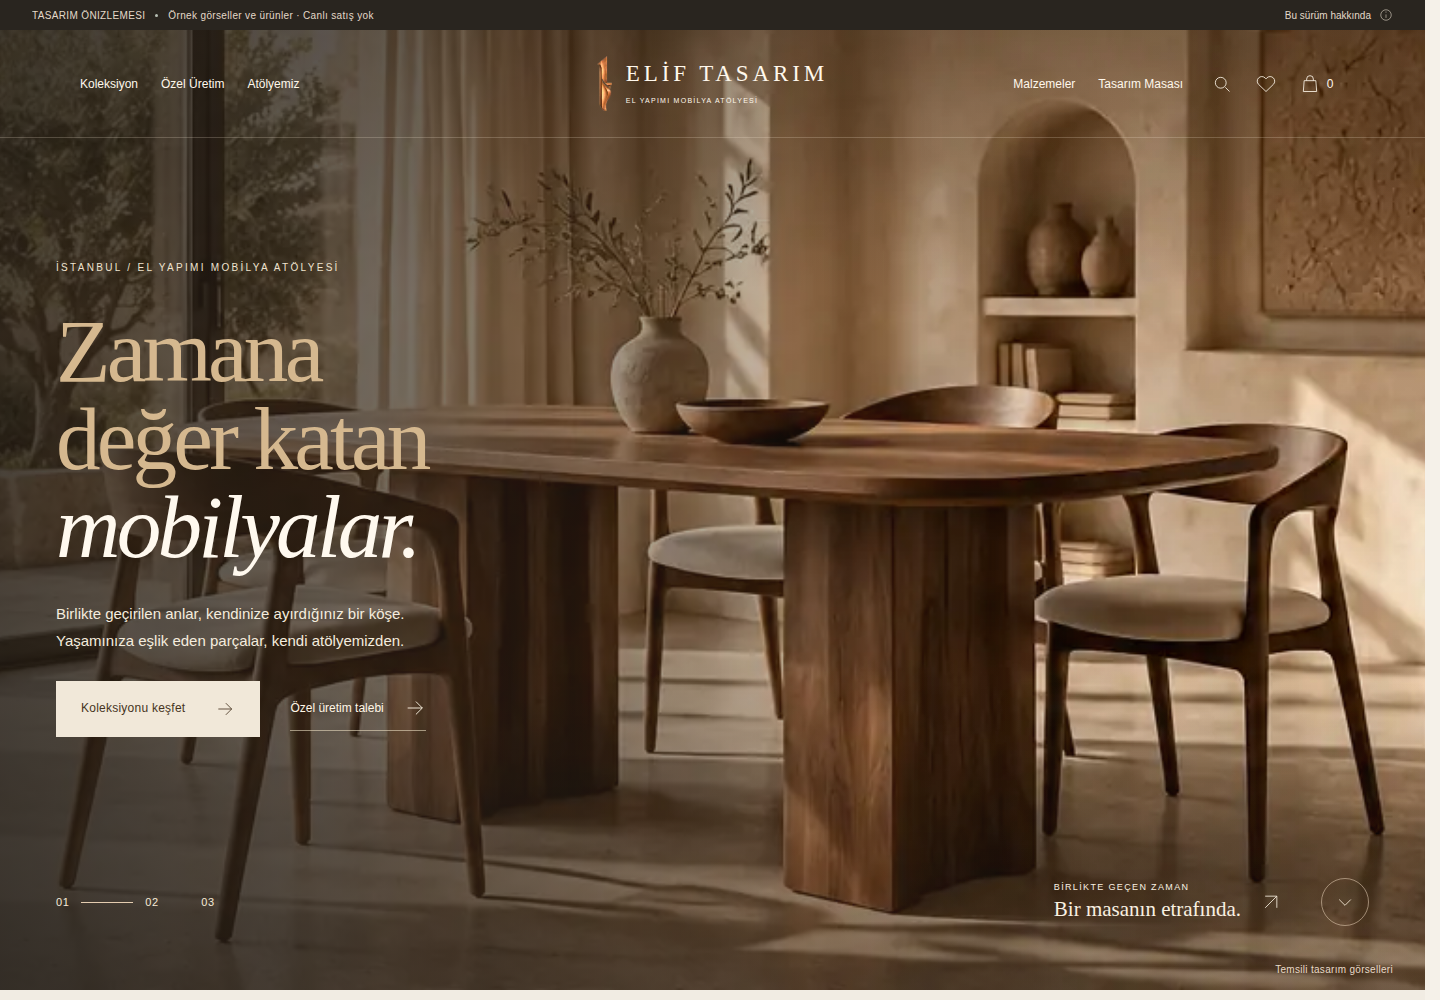
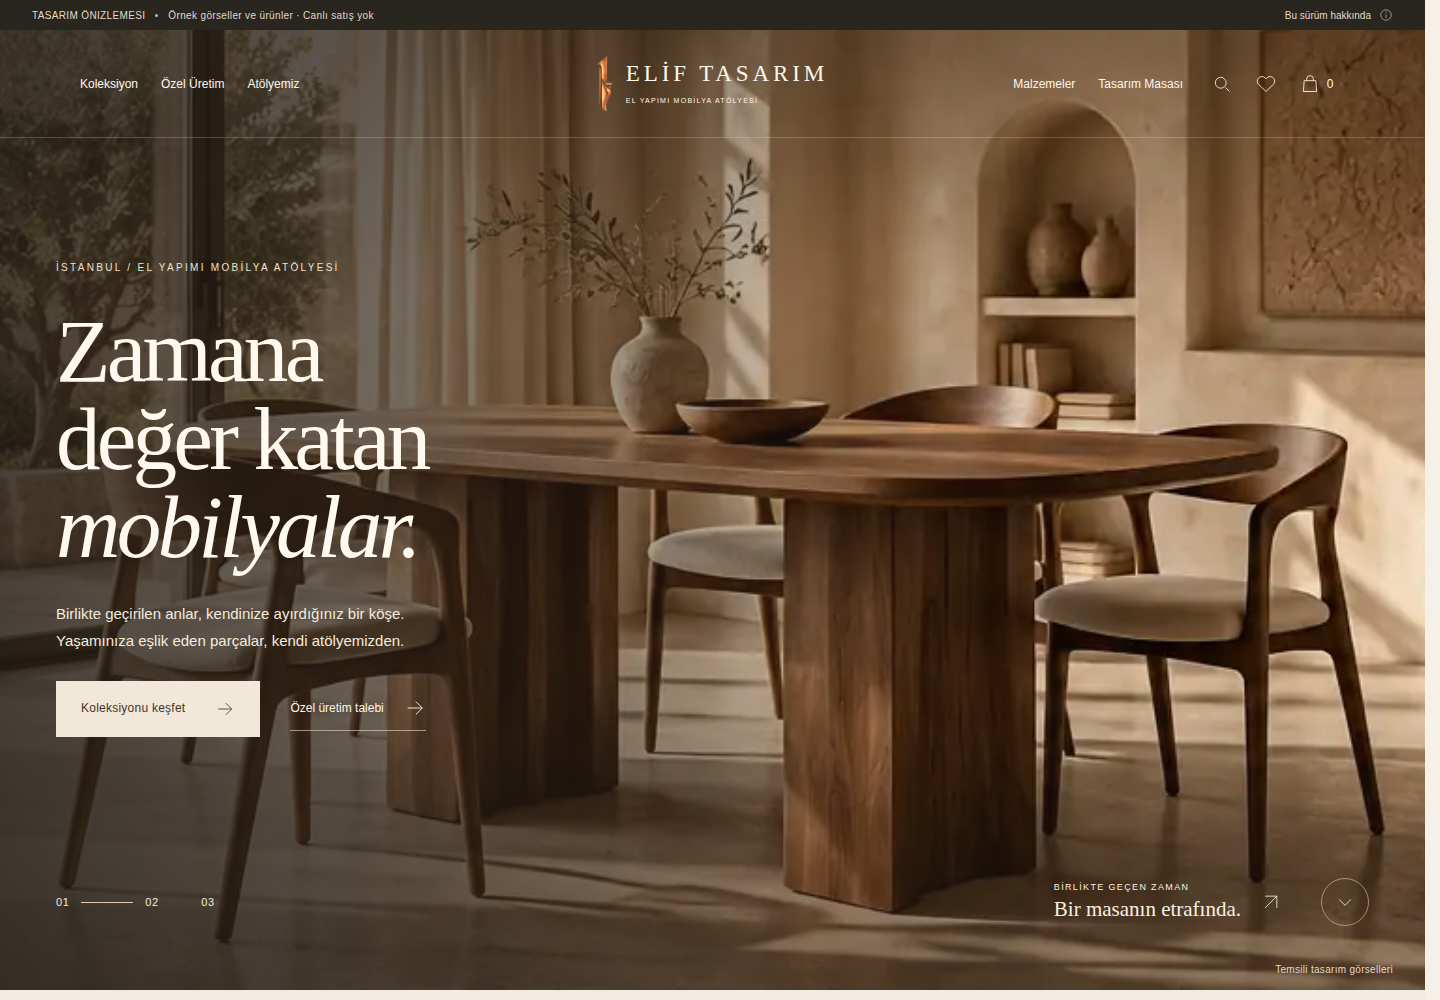
build(elif): tested V4 atelier editorial preview

Changed region(s): [[0.0312, 0.31, 0.3125, 0.496]]

diff --git a/elif-tasarim/index.html b/elif-tasarim/index.html
@@ -7518,7 +7518,9 @@ class DesignDesk extends react_1.Component {
 }
 exports.DesignDesk = DesignDesk;
 
-}}); const cache={}; function resolve(id,from){if(!id.startsWith("."))return id; const a=from.split("/");a.pop();for(const part of id.split("/")){if(part==="..")a.pop();else if(part!==".")a.push(part);}return a.join("/").replace(/\.tsx?$/,"");}function load(id,from=""){id=resolve(id,from);if(cache[id])return cache[id].exports;if(!modules[id])throw new Error("Unknown module "+id);const m={exports:{}};cache[id]=m;modules[id](m,m.exports,x=>load(x,id));return m.exports;}load("src/main");})();</script><script>// Keep keyboard focus inside the active modal, including the last-to-first Tab edge.
+}}); const cache={}; function resolve(id,from){if(!id.startsWith("."))return id; const a=from.split("/");a.pop();for(const part of id.split("/")){if(part==="..")a.pop();else if(part!==".")a.push(part);}return a.join("/").replace(/\.tsx?$/,"");}function load(id,from=""){id=resolve(id,from);if(cache[id])return cache[id].exports;if(!modules[id])throw new Error("Unknown module "+id);const m={exports:{}};cache[id]=m;modules[id](m,m.exports,x=>load(x,id));return m.exports;}load("src/main");})();</script><script>// Small cross-version presentation corrections, with no business or data changes.
+const finish=document.createElement('style');finish.textContent='.v4-hero h1>span{color:inherit}@media(max-width:600px){.v4-heritage-copy h2>br:first-of-type{display:initial}}';document.head.appendChild(finish);
+// Keep keyboard focus inside the active modal, including the last-to-first Tab edge.
 document.addEventListener('keydown', function(event) {
   if (event.key !== 'Tab') return;
   var modal = document.querySelector('dialog[open]');

diff --git a/elif-tasarim/source/polish.js b/elif-tasarim/source/polish.js
@@ -1,3 +1,5 @@
+// Small cross-version presentation corrections, with no business or data changes.
+const finish=document.createElement('style');finish.textContent='.v4-hero h1>span{color:inherit}@media(max-width:600px){.v4-heritage-copy h2>br:first-of-type{display:initial}}';document.head.appendChild(finish);
 // Keep keyboard focus inside the active modal, including the last-to-first Tab edge.
 document.addEventListener('keydown', function(event) {
   if (event.key !== 'Tab') return;
